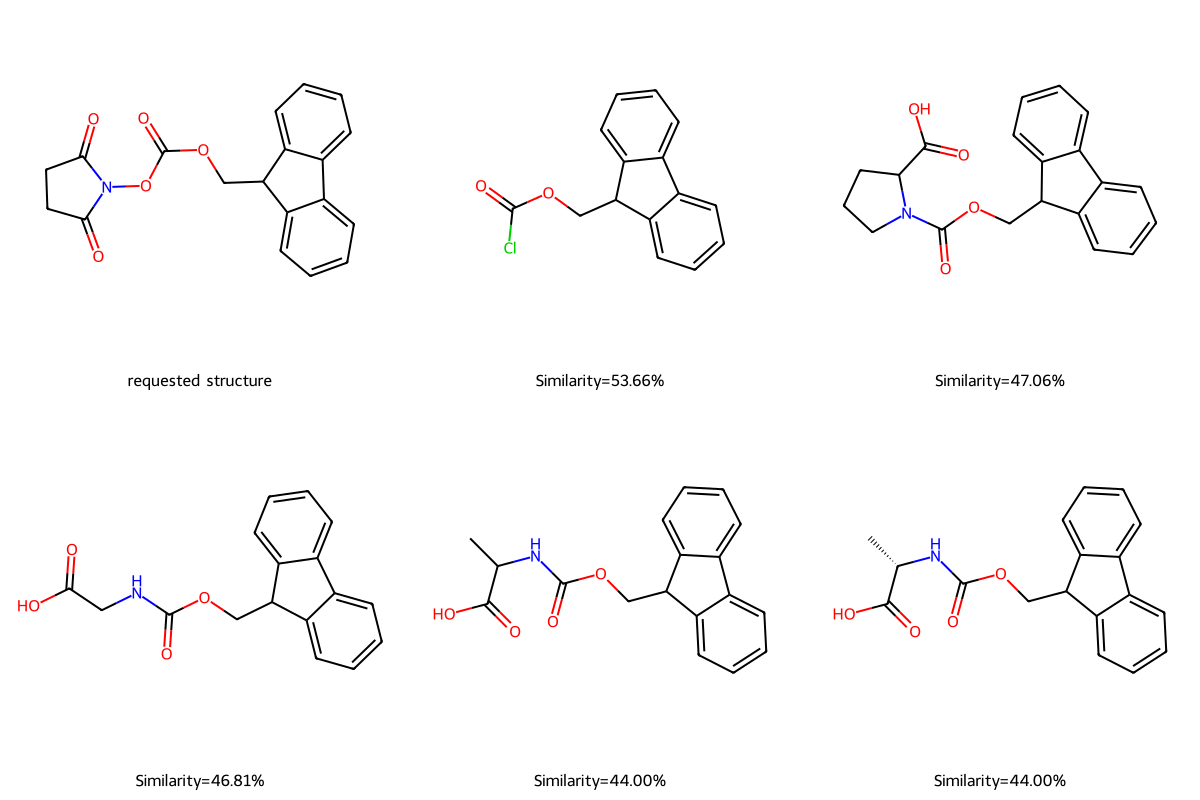
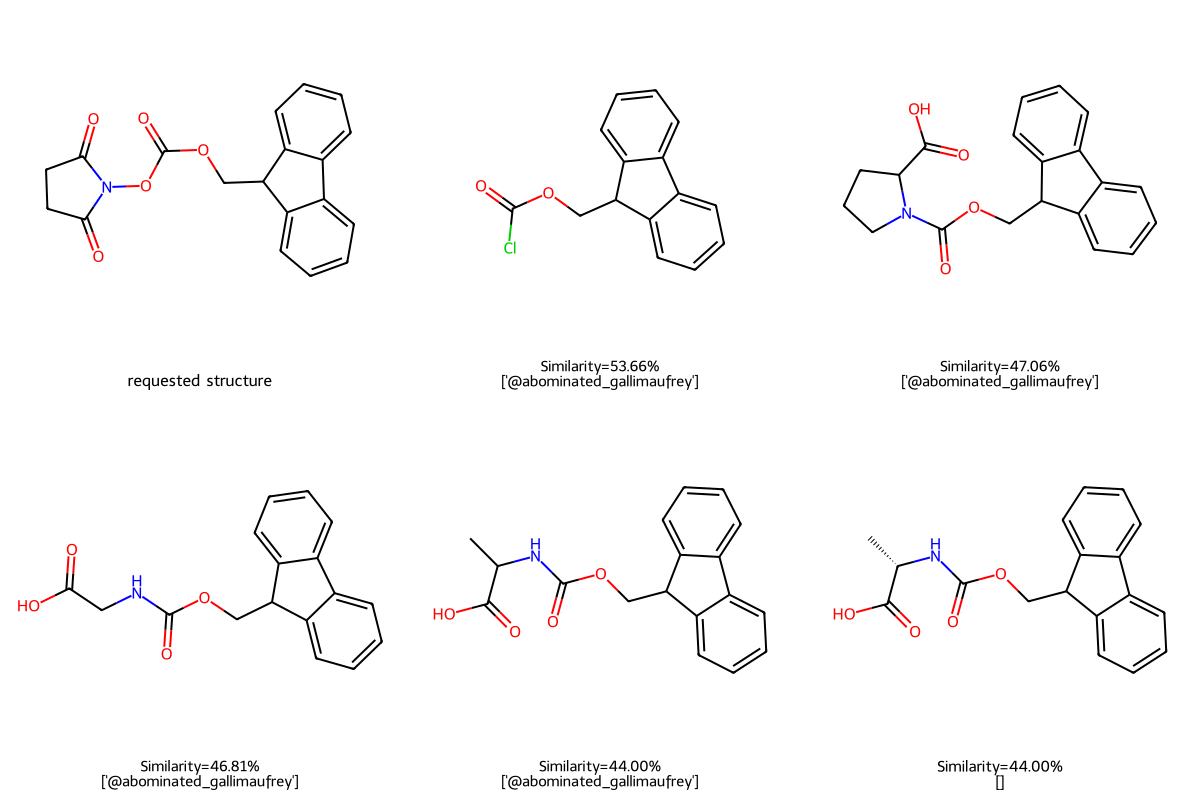
fixed search logic

diff --git a/vendorbot_folder/modules/bot/search_dialog.py b/vendorbot_folder/modules/bot/search_dialog.py
@@ -113,6 +113,7 @@ class Search:
                     if best_match_reagent != None:
                         # for reagent_id in best_match_reagent[0]:
                         inchi_key = best_match_reagent[0]
+
                         database_entries = users_collection.get_user_by_reagent_inchi_key(inchi_key)
                         contacts += [get_contact(i) for i in database_entries]
 
@@ -135,7 +136,15 @@ class Search:
                                 # msg.edit_text(f"Но найден похожий у {', '.join(contacts)}.\nсхожесть с запросом: {(best_match_reagent[2]*100):.2f}%\n{best_match_reagent[1:]}\nSimilarity Map Result:")
                             else:    
                                 update.message.reply_text(f"Но найден похожий у {', '.join(contacts)}.\nсхожесть с запросом: {(best_match_reagent[2]*100):.2f}%\n{best_match_reagent[1:]}\nSimilarity Map Result:")
-                
+                                if user.id in user_ids:
+                                    msg = update.message.reply_text(f"Этот реагент есть у вас.")
+                                    location = users_collection.get_location_by_user_and_inchi_key(update, inchi_key)
+
+                                    if location not in [None, '', []]:
+                                        msg.edit_text(f'Наиболее похожий на ваш запрос реагент находится у вас.\nCхожесть с запросом: {(best_match_reagent[2]*100):.2f}%\nПопробуйте поискать его тут:\n\n{location}')
+                                    else:
+                                        msg.edit_text("Наиболее похожий на ваш запрос реагент находится у вас.\nсхожесть с запросом: {(best_match_reagent[2]*100):.2f}%\nNo location was specified.\n\nSeriously, you're on your own, kiddo.")
+
                                 mol = Chem.MolFromSmiles(best_match_reagent[1])
 
                                 refmol = Chem.MolFromSmiles(smiles)
@@ -151,17 +160,15 @@ class Search:
                                 # result = f'Similarity Map Result. \nсхожесть с запросом: {(best_match_reagent[1]*100):.2f}%'
                                 # update.message.reply_text(result)
 
-
-                                
                                 """
-                                part with grid picture:
+                                making grid picture:
                                 """
                                 five_best_match_mols = unique_molecules_collection.get_5_most_similar_reagents(smiles)
                                 
                                 number_of_pics = len(five_best_match_mols)
                                 ms = [Chem.MolFromSmiles(entry[1]) for entry in five_best_match_mols]
-                                
-                                legends=["requested structure"]+[f"Similarity={(entry[2]*100):.2f}%" for entry in five_best_match_mols]
+
+                                legends=["requested structure"]+[f"Similarity={(entry[2]*100):.2f}%\n{list(set(users_collection.get_reagents_contacts_by_inchi_key(entry[0])))}" for entry in five_best_match_mols]
 
                                 # if '@' + user.username in contacts:
                                 #     msg.edit_text(f"Этот реагент есть у вас.")

diff --git a/vendorbot_folder/modules/db/users.py b/vendorbot_folder/modules/db/users.py
@@ -1,5 +1,6 @@
 
 from modules.db.dbconfig import db_client, MONGO_VENDORBOT_DATABASE
+from modules.db import dbschema
 import logging
 logger = logging.getLogger(__name__)
 
@@ -90,13 +91,21 @@ class UsersCollection:
 
         return '\n'.join(set(locations))
     
-    def get_reagent_by_inchi_key(self, inchi_key: str):
+    def get_reagents_contacts_by_inchi_key(self, inchi_key: str):
         '''
         ищет в коллекции пользователей по листу реагентов совпадения уникального id регагента, и возвращает результат
         '''
         query = {
             "user_reagents": { '$elemMatch': { "inchikey_standard": inchi_key }}
         }
-        return self.collection.find(query)
+        contacts = []
+        users = self.collection.find(query)
+        for user in users:
+            reagents = dbschema.find_reagent(user, inchi_key)
+            
+            for reagent in reagents: 
+                contacts += [dbschema.reagent_contact(user, reagent)]
+
+        return contacts
 
 users_collection = UsersCollection(db_client, MONGO_VENDORBOT_DATABASE)
